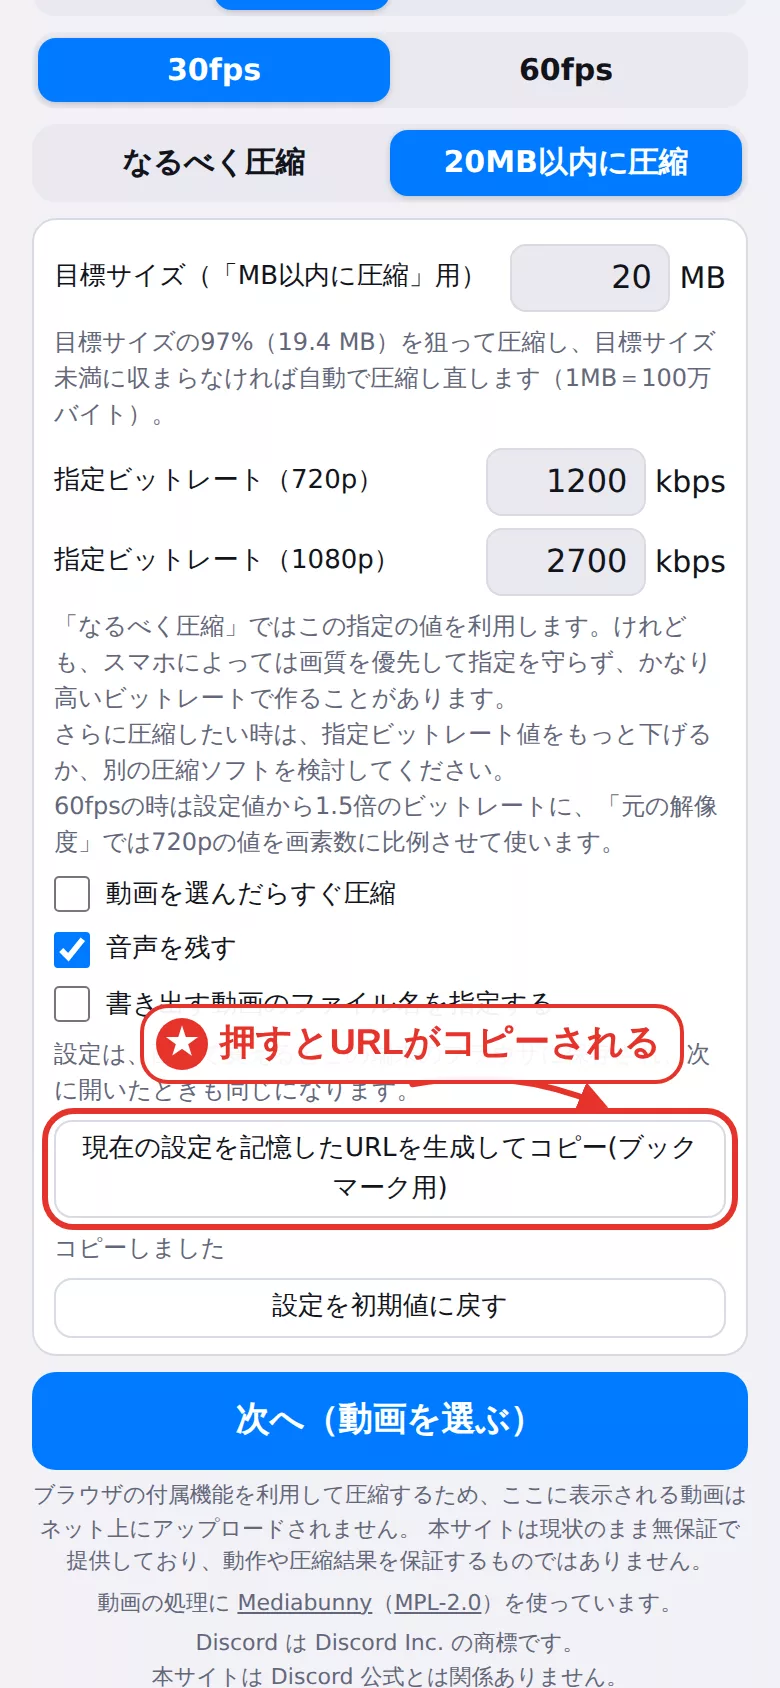
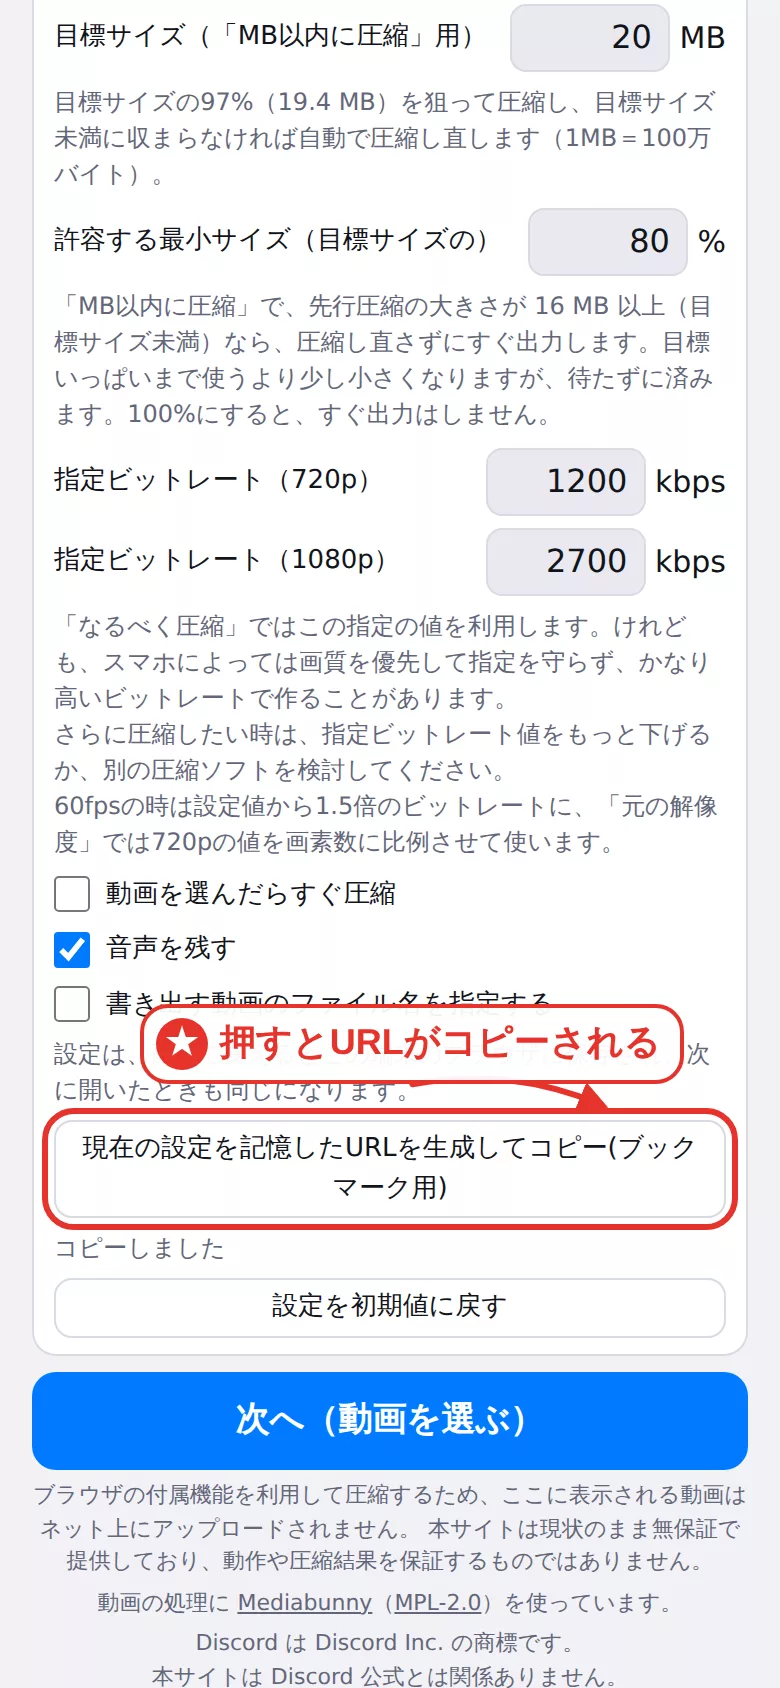
Help: FAQ on instant output, 2026-10-06 update notes, refreshed screenshots
- New FAQ card explaining pre-compression and the instant output
  (80% rule, 許容する最小サイズ, kept after going back from step 3)
- Update notes entry dated 2026-10-06; slides 17 -> 18
- Regenerated step-2/step-3/sc-url images for the current screens
- Version 2026-10-06a, sw cache v216

Claude-Session: https://claude.ai/code/session_01Kjx2uZRnB9w1XNEyRL87P8

Changed region(s): [[0.0308, 0.0, 0.9538, 0.2464], [0.8615, 0.0, 0.9231, 0.0308], [0.5538, 0.0, 0.5846, 0.0308]]

diff --git a/public/index.html b/public/index.html
@@ -261,7 +261,7 @@
     <p>動画をDiscordに送れるサイズ（20MB以内）に小さくします。</p>
 
     <!-- 画像は説明書を開いたときに読み込む（data-src → src）。アプリの起動時には読まない -->
-    <p class="help-hint" id="helpHint" aria-hidden="true"><span class="hint-arrow">‹</span><span>左右にスワイプ（全17枚）</span><span class="hint-arrow">›</span></p>
+    <p class="help-hint" id="helpHint" aria-hidden="true"><span class="hint-arrow">‹</span><span>左右にスワイプ（全18枚）</span><span class="hint-arrow">›</span></p>
     <div class="help-dots" id="helpDots">
       <button type="button" aria-label="1枚目" aria-current="true"></button>
       <button type="button" aria-label="2枚目"></button>
@@ -280,6 +280,7 @@
       <button type="button" aria-label="15枚目"></button>
       <button type="button" aria-label="16枚目"></button>
       <button type="button" aria-label="17枚目"></button>
+      <button type="button" aria-label="18枚目"></button>
     </div>
     <div class="help-slides" id="helpSlides" tabindex="0" aria-label="手順の画像（横にスワイプで次の画像）">
       <img data-src="./help/step-1.webp" width="390" height="780" alt="①どう圧縮するか選ぶ（なるべく圧縮は軽さ重視、画質優先（20MB以内）は画質重視。細かく決めたいときは「詳しく設定する」）">
@@ -351,6 +352,13 @@
       </div>
       <div class="help-card help-qa">
         <span class="card-icon qa-icon" aria-hidden="true">Q</span>
+        <span class="card-title"><span>Q. 一瞬で</span><span>圧縮が終わるのは</span><span>なぜですか？</span></span>
+        <p class="qa-answer">A. 動画を選ぶと、裏で先に圧縮を始めています（先行圧縮）。済んでいれば「圧縮する」の下に「◯MBで即出力します」と出て、押すとすぐに出来上がります。</p>
+        <p class="qa-answer">「画質優先（20MB以内）」では、先行圧縮の大きさが20MBの80%以上（16MB以上）のときだけ使います。小さすぎるときは、20MBに近づくよう圧縮し直します。</p>
+        <p class="qa-answer qa-note">※80%は「詳しく設定する」の「許容する最小サイズ」で変えられます。圧縮後に「← 戻る」で範囲を変えても、先行圧縮の済んだ所ならすぐ出せます。</p>
+      </div>
+      <div class="help-card help-qa">
+        <span class="card-icon qa-icon" aria-hidden="true">Q</span>
         <span class="card-title"><span>Q. 圧縮中に</span><span>他のアプリを</span><span>開いてもいいですか？</span></span>
         <p class="qa-answer">A. 圧縮が終わるまで、この画面を表示したまま待ってください。</p>
         <p class="qa-answer">他のアプリに切り替えたり、画面をロックしたりすると、圧縮が止まることがあります。そのときは、この画面に戻ると最初からやり直します。</p>
@@ -373,6 +381,7 @@
       <div class="help-card help-qa help-news">
         <span class="card-icon qa-icon" aria-hidden="true">i</span>
         <span class="card-title"><span>更新情報</span></span>
+        <p class="qa-answer"><b>2026年10月6日</b><br>「画質優先（20MB以内）」で、先行圧縮が目標の80%以上ならすぐ出力するように（「詳しく設定する」の「許容する最小サイズ」で変更可）。圧縮後に戻っても先行圧縮を残すように。予想サイズと圧縮結果を大きく表示</p>
         <p class="qa-answer"><b>2026年9月28日</b><br>サイト公開</p>
       </div>
     </div>

diff --git a/public/js/constants.js b/public/js/constants.js
@@ -44,7 +44,7 @@ export var MIN_SHRINK = 0.03;
 export var KEYFRAME_INTERVAL = 2;             // 秒
 export var MIN_TRIM_LENGTH = 0.5;             // 秒
 export var AUDIO_DECODE_MAX_BYTES = 400 * MB;   // 互換モードで音声を扱うファイルサイズの上限
-export var APP_VERSION = '2026-10-04h';        // 診断情報に出す（どの版で起きたかを見分ける）
+export var APP_VERSION = '2026-10-06a';        // 診断情報に出す（どの版で起きたかを見分ける）
 export var CANCELLED = 'cancelled';
 export var SNAPSHOT_MAX_BYTES = 600 * MB;     // Android で動画をブラウザ内に写し取る上限（これより大きい動画は写さない）
 export var STALLED = 'stalled';

diff --git a/public/sw.js b/public/sw.js
@@ -9,7 +9,7 @@
 'use strict';
 
 var CACHE_PREFIX = 'video-compressor-under20mb-';   // このアプリのキャッシュ名の頭（同じドメインの別アプリのキャッシュは消さない）
-var CACHE = CACHE_PREFIX + 'v215';
+var CACHE = CACHE_PREFIX + 'v216';
 var NETWORK_TIMEOUT_MS = 3000;   // ネット優先のとき、ネットの応答をこれだけ待ってからキャッシュを使う
 
 // Cloudflare Pages のプレビュー（<ブランチ名>.<プロジェクト名>.pages.dev）と手元の確認環境だけネット優先にする
